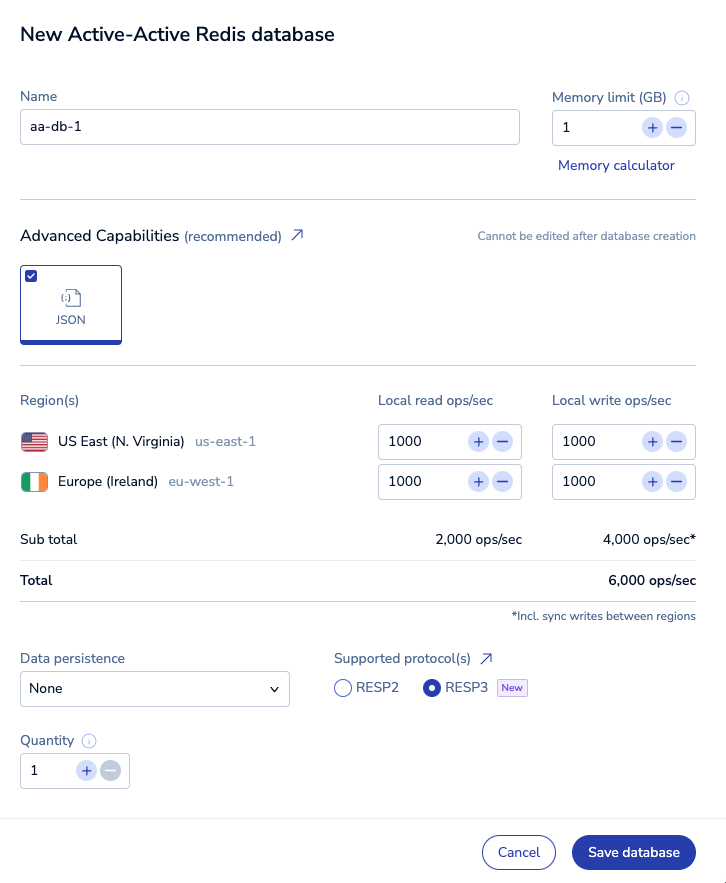
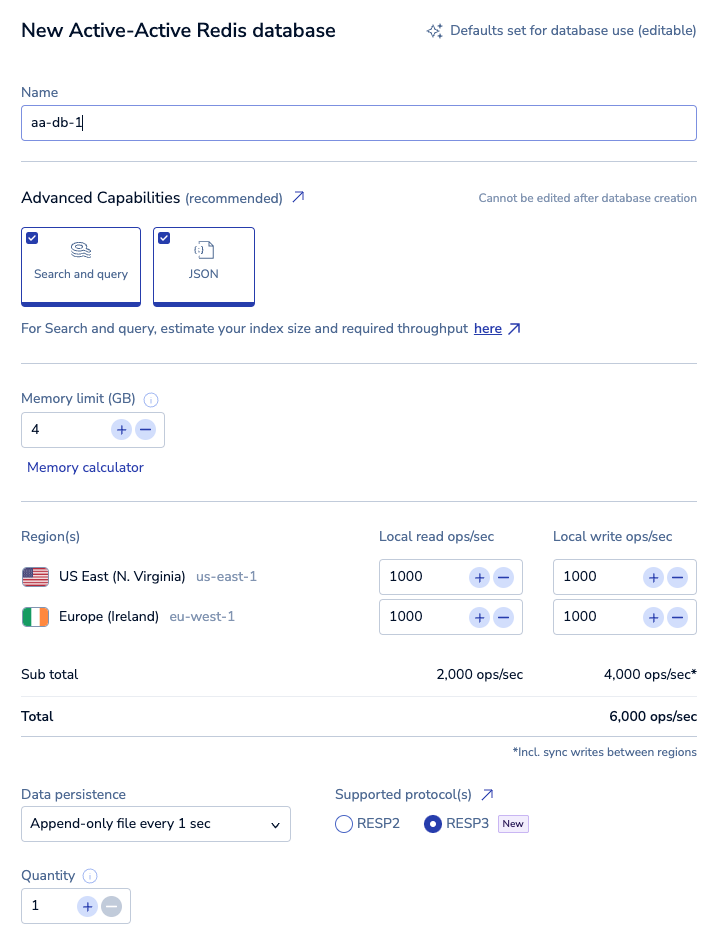
Add memory limit section

diff --git a/content/operate/rc/databases/create-database/create-active-active-database.md b/content/operate/rc/databases/create-database/create-active-active-database.md
@@ -78,6 +78,18 @@ For Search and query databases, use the [Sizing calculator](https://redis.io/red
 
 See [Search and query Active-Active databases]({{< relref "/operate/oss_and_stack/stack-with-enterprise/search/search-active-active" >}}) to learn how to use Search and query on Active-Active databases.
 
+## Define memory limit
+
+Active-Active databases have specific memory requirements that differ from non-replicated Redis. 
+
+Select **Memory calculator** to calculate the memory limit for your Active-Active database.
+
+{{<image filename="images/rc/active-active-memory-calculator.png" width="75%" alt="The memory calculator. Enter your expected database size to see the memory limit." >}}
+
+In the Memory calculator, enter your expected dataset size. For Search and query databases, add the estimated index size from the [Sizing calculator](https://redis.io/redisearch-sizing-calculator/) to your expected dataset size.
+
+Select **Apply** to apply the calculated memory limit.  
+
 ## Define throughput
 
 Each Active-Active instance coordinates changes with every other instance, which increases memory use and throughput.
@@ -106,6 +118,6 @@ Throughput requirements grow dramatically as regions increase.  As a result, con
 
 - [Create a Pro database with a new subscription]({{< relref "/operate/rc/databases/create-database/create-pro-database-new" >}})
 - [Active-Active Redis]({{< relref "/operate/rc/databases/configuration/active-active-redis" >}})
-- Database [memory limit]({{< relref "/operate/rc/databases/create-database#memory-limit" >}})
+- Database [memory limit]({{< relref "/operate/rc/databases/configure/clustering#dataset-size" >}})
 - Redis Cloud [subscription plans]({{< relref "/operate/rc/subscriptions/" >}})
 - [Redis Cloud pricing](https://redis.com/redis-enterprise-cloud/pricing/)
